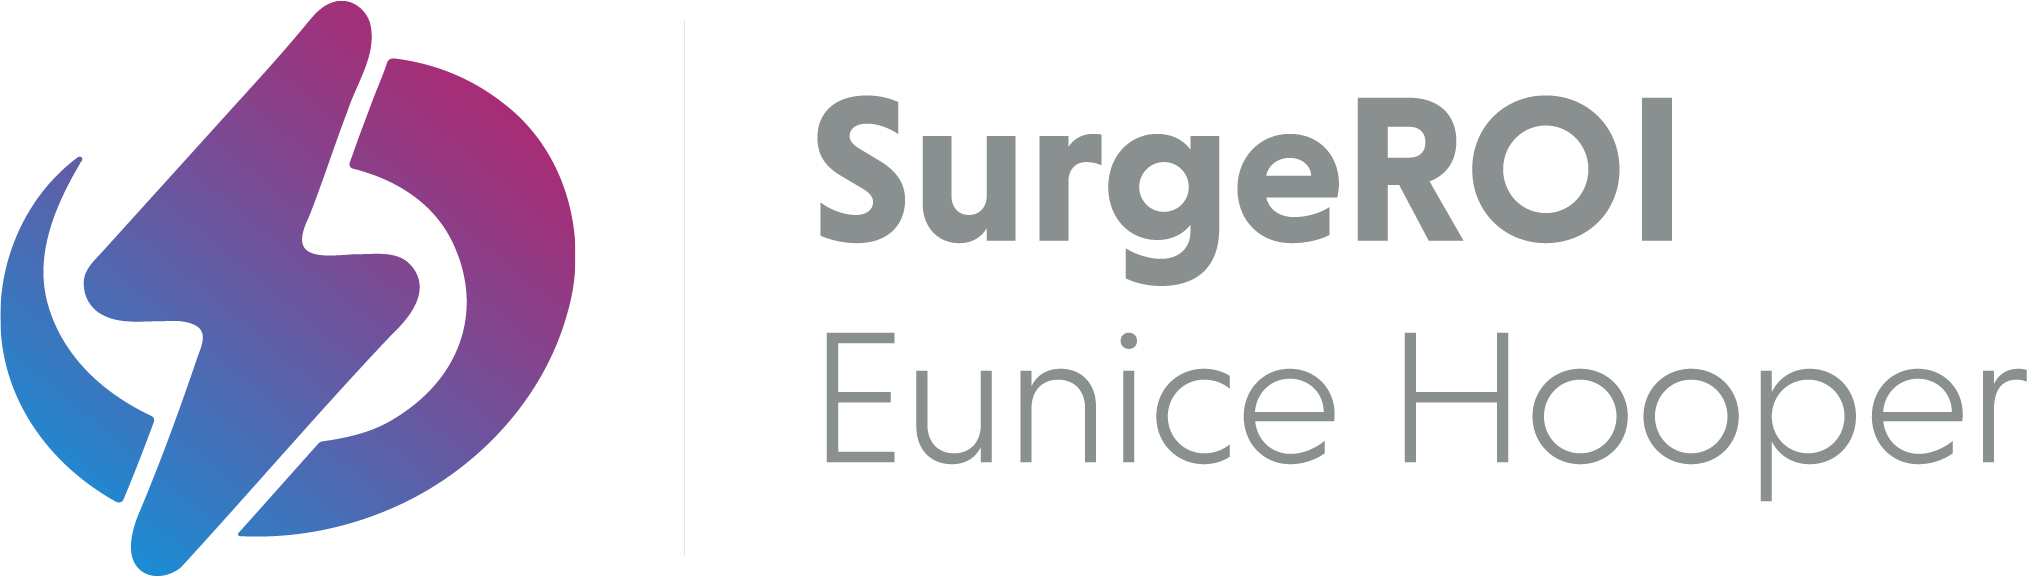
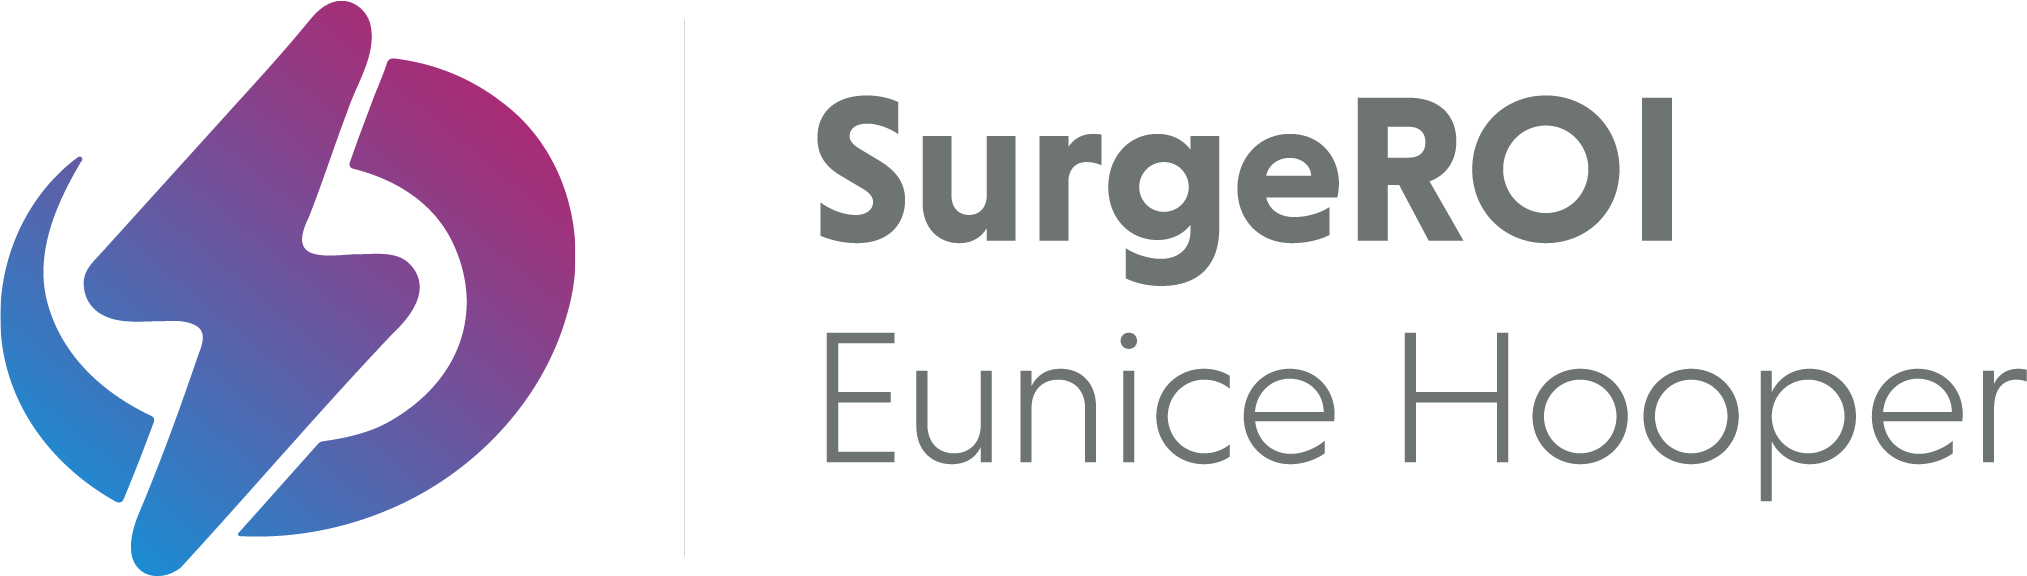
update image colors further, fix a very dumb spelling error

Changed region(s): [[0.404, 0.1562, 0.8392, 0.5], [0.404, 0.5625, 1.0, 0.8438]]

diff --git a/team/foster-douglas.html b/team/foster-douglas.html
@@ -1,5 +1,9 @@
 <body dir="auto">
-  <a herf="https://surgeroi.io" target="_blank">
+  <a
+    href="https://surgeroi.io"
+    target="_blank"
+    style="display: flex; height: auto"
+  >
     <img
       src="/team/images/foster-douglas.png"
       height="56"

diff --git a/team/eunice-hooper.html b/team/eunice-hooper.html
@@ -1,5 +1,9 @@
 <body dir="auto">
-  <a herf="https://surgeroi.io" target="_blank">
+  <a
+    href="https://surgeroi.io"
+    target="_blank"
+    style="display: flex; height: auto"
+  >
     <img
       src="/team/images/eunice-hooper.png"
       height="56"

diff --git a/team/gemma-doyle.html b/team/gemma-doyle.html
@@ -1,5 +1,9 @@
 <body dir="auto">
-  <a herf="https://surgeroi.io" target="_blank">
+  <a
+    href="https://surgeroi.io"
+    target="_blank"
+    style="display: flex; height: auto"
+  >
     <img
       src="/team/images/gemma-doyle.png"
       height="56"

diff --git a/team/jon-holt.html b/team/jon-holt.html
@@ -1,5 +1,9 @@
 <body dir="auto">
-  <a herf="https://surgeroi.io" target="_blank">
+  <a
+    href="https://surgeroi.io"
+    target="_blank"
+    style="display: flex; height: auto"
+  >
     <img
       src="/team/images/jon-holt.png"
       height="56"
